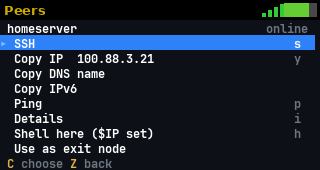
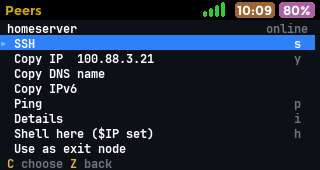
Rename the package to cz-peers; 1.1.1
The app is called Peers, so the package, repo and paths follow:
cz-tailscale -> cz-peers (desktop entry, icon, /usr/share/APPLaunch/apps,
~/.config and ~/.cache dirs, ts-clip). The package Replaces/Conflicts
cz-tailscale, and saved SSH users are still read from the old config dir
until the first save.

Also in 1.1.1: ssh connects by the device's short name with -o HostName=<IP>,
so Host blocks in ~/.ssh/config apply while MagicDNS is not needed.

Store screenshots: the launcher's status bar now matches the real one
(rounded Wi-Fi bars, clock and battery pills; the old mock merged the bars
into a green battery block). tools/screenshot.py gains --scale N for sharp
large renders. New 1280x640 social preview.

Changed region(s): [[0.625, 0.0, 1.0, 0.1176], [0.0, 0.0294, 0.1562, 0.0882]]

diff --git a/app/app.py b/app/app.py
@@ -35,11 +35,11 @@ from datetime import datetime, timezone
 
 import qr
 
-VERSION = '1.1.0'
+VERSION = '1.1.1'
 SOCK = os.environ.get('CZ_TS_SOCKET', '/var/run/tailscale/tailscaled.sock')
-CONFIG_DIR = Path.home() / '.config/cz-tailscale'
+CONFIG_DIR = Path.home() / '.config/cz-peers'
 HOSTS_FILE = CONFIG_DIR / 'hosts.json'
-CLIP_FILE = Path.home() / '.cache/cz-tailscale/clipboard'
+CLIP_FILE = Path.home() / '.cache/cz-peers/clipboard'
 ASCII = os.environ.get('CZ_TS_ASCII') == '1'
 # CardputerZero convention (as in the launcher's apps): F/X/Z/C are up/down/left/right
 UP_KEYS = ('UP', 'f', 'F', ';')
@@ -347,6 +347,28 @@ def human_bytes(n):
         n /= 1024
 
 
+def ssh_alias(node):
+    """The name ssh is given for a device: its short tailnet name, so that a
+    `Host <name>` block in ~/.ssh/config (IdentityFile, ProxyJump, ...) applies.
+    Falls back to the IP when the name is not a plain host name."""
+    name = node.name or ''
+    ok = name and name[0].isalnum() and all(c.isalnum() or c in '-.' for c in name)
+    return name if ok else node.ip
+
+
+def ssh_argv(node, user, port):
+    """ssh by device name, but always to its Tailscale IP: -o HostName on the
+    command line beats any HostName in ~/.ssh/config and needs no MagicDNS,
+    while Host/Match blocks for the name still supply keys and other options."""
+    argv = ['ssh', '-o', 'ConnectTimeout=15']
+    alias = ssh_alias(node)
+    if alias != node.ip:
+        argv += ['-o', 'HostName=' + node.ip]
+    if port != '22':
+        argv += ['-p', port]
+    return argv + ['%s@%s' % (user, alias)]
+
+
 class Node:
     def __init__(self, raw, suffix, users):
         self.raw = raw
@@ -419,6 +441,12 @@ class Model:
 def load_hosts():
     try:
         return json.loads(HOSTS_FILE.read_text())
+    except FileNotFoundError:
+        pass
+    except (OSError, ValueError):
+        return {}
+    try:  # saved by the package's earlier name, cz-tailscale (1.1.0 and older)
+        return json.loads((Path.home() / '.config/cz-tailscale/hosts.json').read_text())
     except (OSError, ValueError):
         return {}
 
@@ -643,13 +671,13 @@ class HelpView(ScrollText):
             ('l', 'log in (shows a QR code to scan)'),
             ('o', 'log out (in the m page)'),
             ('', ''),
-            ('', 'There is no system clipboard. "Copy" saves the IP to ~/.cache/cz-tailscale/clipboard; '
+            ('', 'There is no system clipboard. "Copy" saves the IP to ~/.cache/cz-peers/clipboard; '
                  'in the CLI app type ts-clip to print it, e.g. scp f pi@$(ts-clip):'),
             ('', '"Shell here" opens bash with $IP and $HOST set to the device.'),
             ('', ''),
             ('', 'Changing settings needs: sudo tailscale set --operator=$USER '
                  '(the app offers to run it when a change is refused).'),
-            ('', 'Peers (cz-tailscale) %s' % VERSION, DIM),
+            ('', 'Peers (cz-peers) %s' % VERSION, DIM),
             ('', 'Unofficial app, not affiliated with or endorsed by Tailscale Inc. Tailscale is a registered trademark of Tailscale Inc.', DIM),
         ]
 
@@ -953,7 +981,7 @@ class SSHPrompt(View):
             rows.append(row)
             rows.append(Row())
         user, port = self.fields[0][1], self.fields[1][1]
-        cmd = 'ssh %s%s@%s' % ('-p %s ' % port if port != '22' else '', user, self.node.ip)
+        cmd = 'ssh %s%s@%s' % ('-p %s ' % port if port != '22' else '', user, ssh_alias(self.node))
         rows.append(text_row('  ' + cmd, DIM))
         rows += [Row()] * (h - 1 - len(rows))
         return rows + [footer([('Enter', 'connect'), ('Tab', 'field'), ('Esc', 'back')])]
@@ -1310,11 +1338,9 @@ class App:
         self.hosts[node.name] = {'user': user, 'port': port}
         self.hosts['_default'] = {'user': user}
         save_hosts(self.hosts)
-        argv = ['ssh', '-o', 'ConnectTimeout=15']
-        if port != '22':
-            argv += ['-p', port]
-        argv.append('%s@%s' % (user, node.ip))
-        self.term.run_interactive(argv, '\x1b[33m%s\x1b[0m  %s' % (' '.join(argv[3:]), node.name))
+        argv = ssh_argv(node, user, port)
+        shown = 'ssh %s%s@%s' % ('-p %s ' % port if port != '22' else '', user, ssh_alias(node))
+        self.term.run_interactive(argv, '\x1b[33m%s\x1b[0m  %s' % (shown, node.ip))
         self.refresh_now()
 
     def api_failed(self, err):
@@ -1503,7 +1529,7 @@ class App:
 
 def main():
     if not sys.stdin.isatty():
-        print('cz-tailscale needs a terminal (the launcher entry runs it in one).', file=sys.stderr)
+        print('cz-peers needs a terminal (the launcher entry runs it in one).', file=sys.stderr)
         return 1
     # ssh and bash run in this terminal; the launcher's own shell uses st-256color
     if os.environ.get('TERM', 'dumb') in ('dumb', 'linux', ''):

diff --git a/tools/screenshot.py b/tools/screenshot.py
@@ -7,9 +7,10 @@ bold brightening, 7x15 px cells under a 20 px top bar, and the launcher's
 fonts. Run it on the CardputerZero (needs Pillow and the launcher's fonts).
 Pair it with tools/fake_tailscaled.py so only placeholder devices show.
 
-usage: screenshot.py REC.json MARK OUT.png [--qr]
+usage: screenshot.py REC.json MARK OUT.png [--qr] [--scale N]
   MARK: index of the checkpoint to show (0 = 'start', 1 = after the first key...)
   --qr: also paint the login QR code the way the app's overlay does
+  --scale N: draw at N x 320x170 with the fonts scaled up (sharp README/cover art)
 """
 import json
 import os
@@ -21,9 +22,10 @@ from PIL import Image, ImageDraw, ImageFont
 sys.path.insert(0, os.path.join(os.path.dirname(os.path.abspath(__file__)), '..', 'app'))
 
 FONT_DIR = '/usr/share/APPLaunch/share/font/'
-MONO = ImageFont.truetype(FONT_DIR + 'JetBrainsMono-Bold.ttf', 12)
-SYMBOLS = ImageFont.truetype(FONT_DIR + 'DejaVuSansMono.ttf', 12)
-TITLE = ImageFont.truetype('/usr/share/fonts/truetype/dejavu/DejaVuSans-Bold.ttf', 13)
+SCALE = int(sys.argv[sys.argv.index('--scale') + 1]) if '--scale' in sys.argv else 1
+MONO = ImageFont.truetype(FONT_DIR + 'JetBrainsMono-Bold.ttf', 12 * SCALE)
+SYMBOLS = ImageFont.truetype(FONT_DIR + 'DejaVuSansMono.ttf', 12 * SCALE)
+BAR = ImageFont.truetype(FONT_DIR + 'Montserrat-Bold.ttf', 13 * SCALE)
 PALETTE = [0x0D1117, 0xFF5F56, 0x27C93F, 0xFFBD2E, 0x2F81F7, 0xBC8CFF, 0x39C5CF, 0xF0F6FC,
            0x6E7681, 0xFFA198, 0x56D364, 0xE3B341, 0x79C0FF, 0xD2A8FF, 0x56D4DD, 0xFFFFFF]
 DEFAULT_FG, DEFAULT_BG = 7, 0
@@ -106,12 +108,17 @@ def replay(data, cols, rows):
 
 
 def top_bar(draw, title):
-    draw.rectangle((0, 0, 319, TOP - 1), fill=(0, 0, 0))
-    draw.text((4, 2), title, font=TITLE, fill=rgb(0xCCAA00))
-    for i, h in enumerate((4, 7, 10, 13)):  # wifi bars
-        draw.rectangle((262 + i * 6, 17 - h, 265 + i * 6, 16), fill=rgb(0x33CC33))
-    draw.rectangle((284, 3, 316, 16), fill=rgb(0x484847))  # battery 33x14
-    draw.rectangle((284, 3, 308, 16), fill=rgb(0x66CC33))
+    """The launcher's status bar, measured from a real fb0 grab: title, Wi-Fi
+    bars, then a clock pill and a battery pill (placeholder time and charge)."""
+    S = SCALE
+    draw.rectangle((0, 0, 320 * S - 1, TOP * S - 1), fill=(0, 0, 0))
+    draw.text((5 * S, 10 * S), title, font=BAR, fill=rgb(0xCCAA00), anchor='lm')
+    for i, top in enumerate((11, 8, 5, 2)):
+        x = 203 + i * 6
+        draw.rounded_rectangle((x * S, top * S, (x + 4) * S - 1, 17 * S - 1), 2 * S, fill=rgb(0x31CE31))
+    for x0, x1, colour, text in ((235, 275, 0x9C6531, '10:09'), (279, 315, 0xAC61A4, '80%')):
+        draw.rounded_rectangle((x0 * S, 2 * S, x1 * S - 1, 18 * S - 1), 3 * S, fill=rgb(colour))
+        draw.text(((x0 + x1) / 2 * S, 10 * S), text, font=BAR, fill=(255, 255, 255), anchor='mm')
 
 
 def main():
@@ -121,15 +128,15 @@ def main():
     data = d['data'].encode('latin1')[:end].decode('utf-8', errors='replace')
     cols, rows = d['cols'], d['rows']
     grid = replay(data, cols, rows)
-    img = Image.new('RGB', (320, 170), rgb(PALETTE[DEFAULT_BG]))
+    img = Image.new('RGB', (320 * SCALE, 170 * SCALE), rgb(PALETTE[DEFAULT_BG]))
     draw = ImageDraw.Draw(img)
     top_bar(draw, 'Peers')
     for y, line in enumerate(grid):
         for x, (ch, fg, bg, bold) in enumerate(line):
             if bold and fg < 8:
                 fg += 8
-            px, py = x * CW, TOP + y * CH
-            draw.rectangle((px, py, px + CW - 1, py + CH - 1), fill=rgb(PALETTE[bg]))
+            px, py = x * CW * SCALE, (TOP + y * CH) * SCALE
+            draw.rectangle((px, py, px + CW * SCALE - 1, py + CH * SCALE - 1), fill=rgb(PALETTE[bg]))
             if ch != ' ':
                 font = MONO if ord(ch) < 0x2000 else SYMBOLS
                 draw.text((px, py), ch, font=font, fill=rgb(PALETTE[fg]))
@@ -139,7 +146,8 @@ def main():
         rows_px = app.qr_image('https://login.tailscale.com/a/1a2b3c4d5e6f7',
                                app.LoginView.QR_COLS * CW, 10 * CH)
         qr = Image.frombytes('RGB', (len(rows_px[0]) // 2, len(rows_px)), b''.join(rows_px), 'raw', 'BGR;16')
-        img.paste(qr, (0, TOP))
+        qr = qr.resize((qr.width * SCALE, qr.height * SCALE), Image.NEAREST)
+        img.paste(qr, (0, TOP * SCALE))
     img.save(out)
 
 

diff --git a/README.md b/README.md
@@ -19,8 +19,10 @@ launcher. It runs in the launcher's built-in terminal.
 From the CardputerZero app store, or build the package on the device:
 
 ```sh
-sudo bash install.sh        # builds build/cz-tailscale_<version>_all.deb and installs it
+sudo bash install.sh        # builds build/cz-peers_<version>_all.deb and installs it
 ```
+
+The package was called `cz-tailscale` up to 1.1.0; installing `cz-peers` replaces it and keeps the saved SSH users.
 
 The package makes the desktop user Tailscale's operator (`tailscale set --operator`), so the app
 can change settings without sudo.
